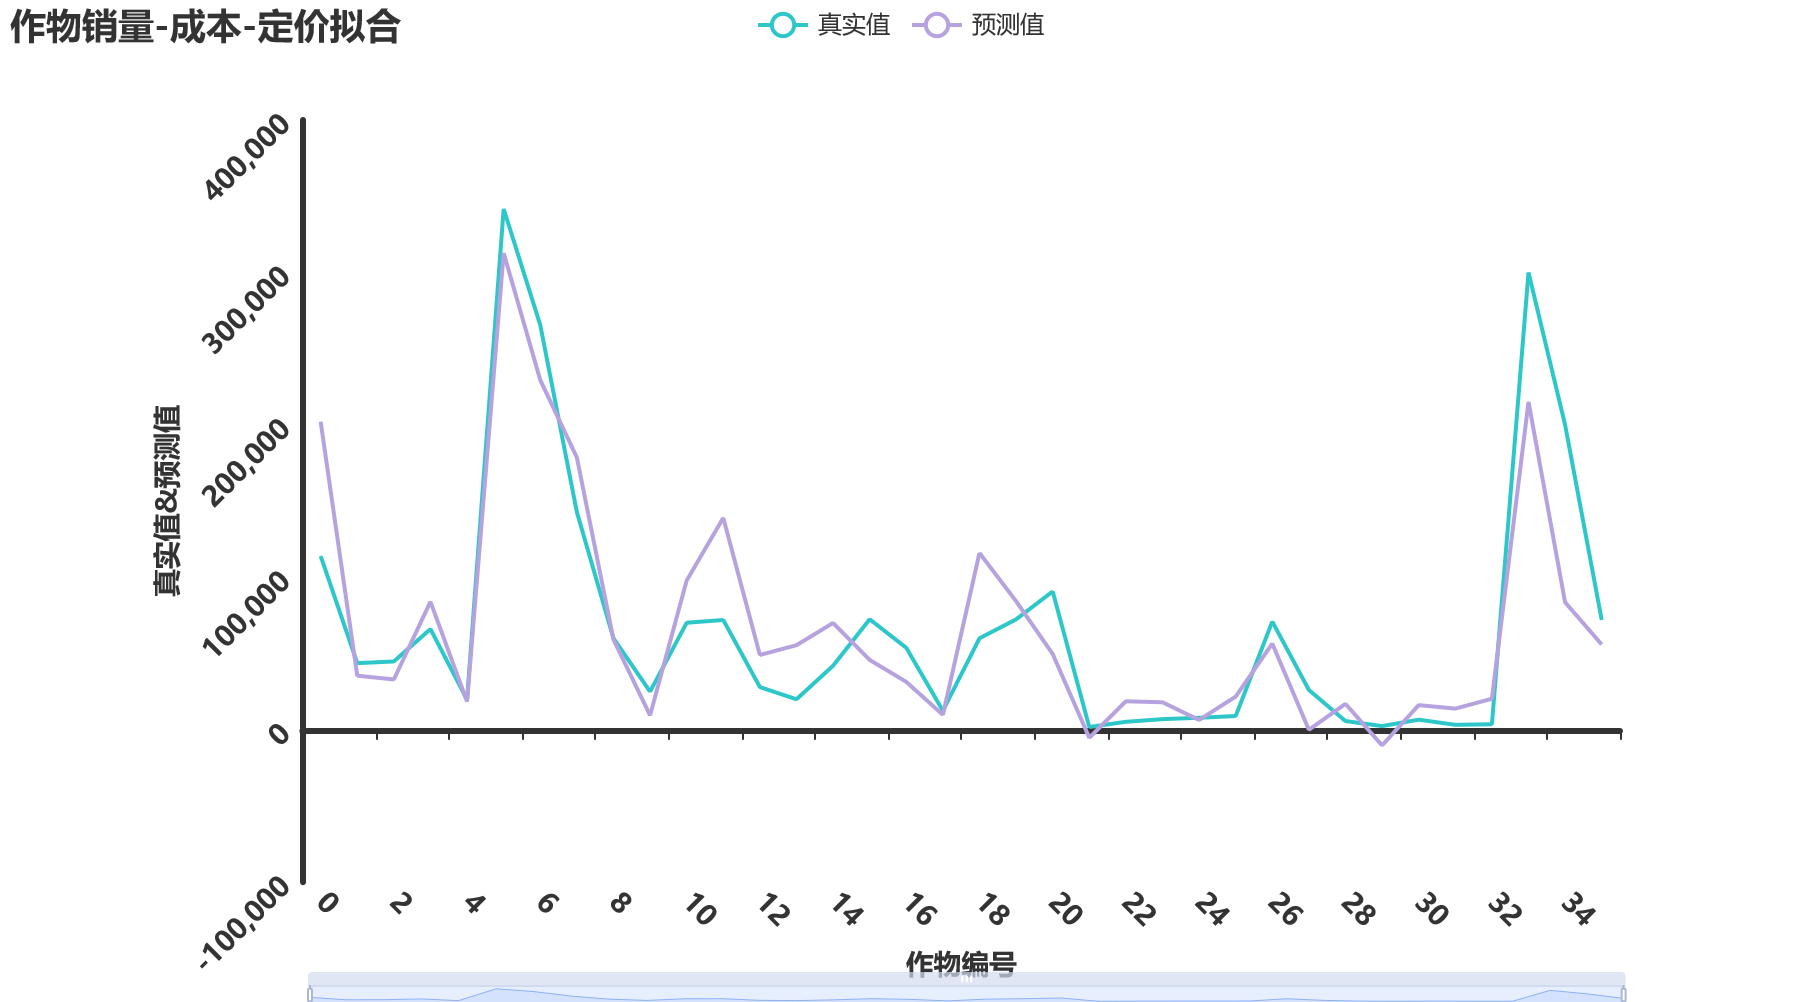
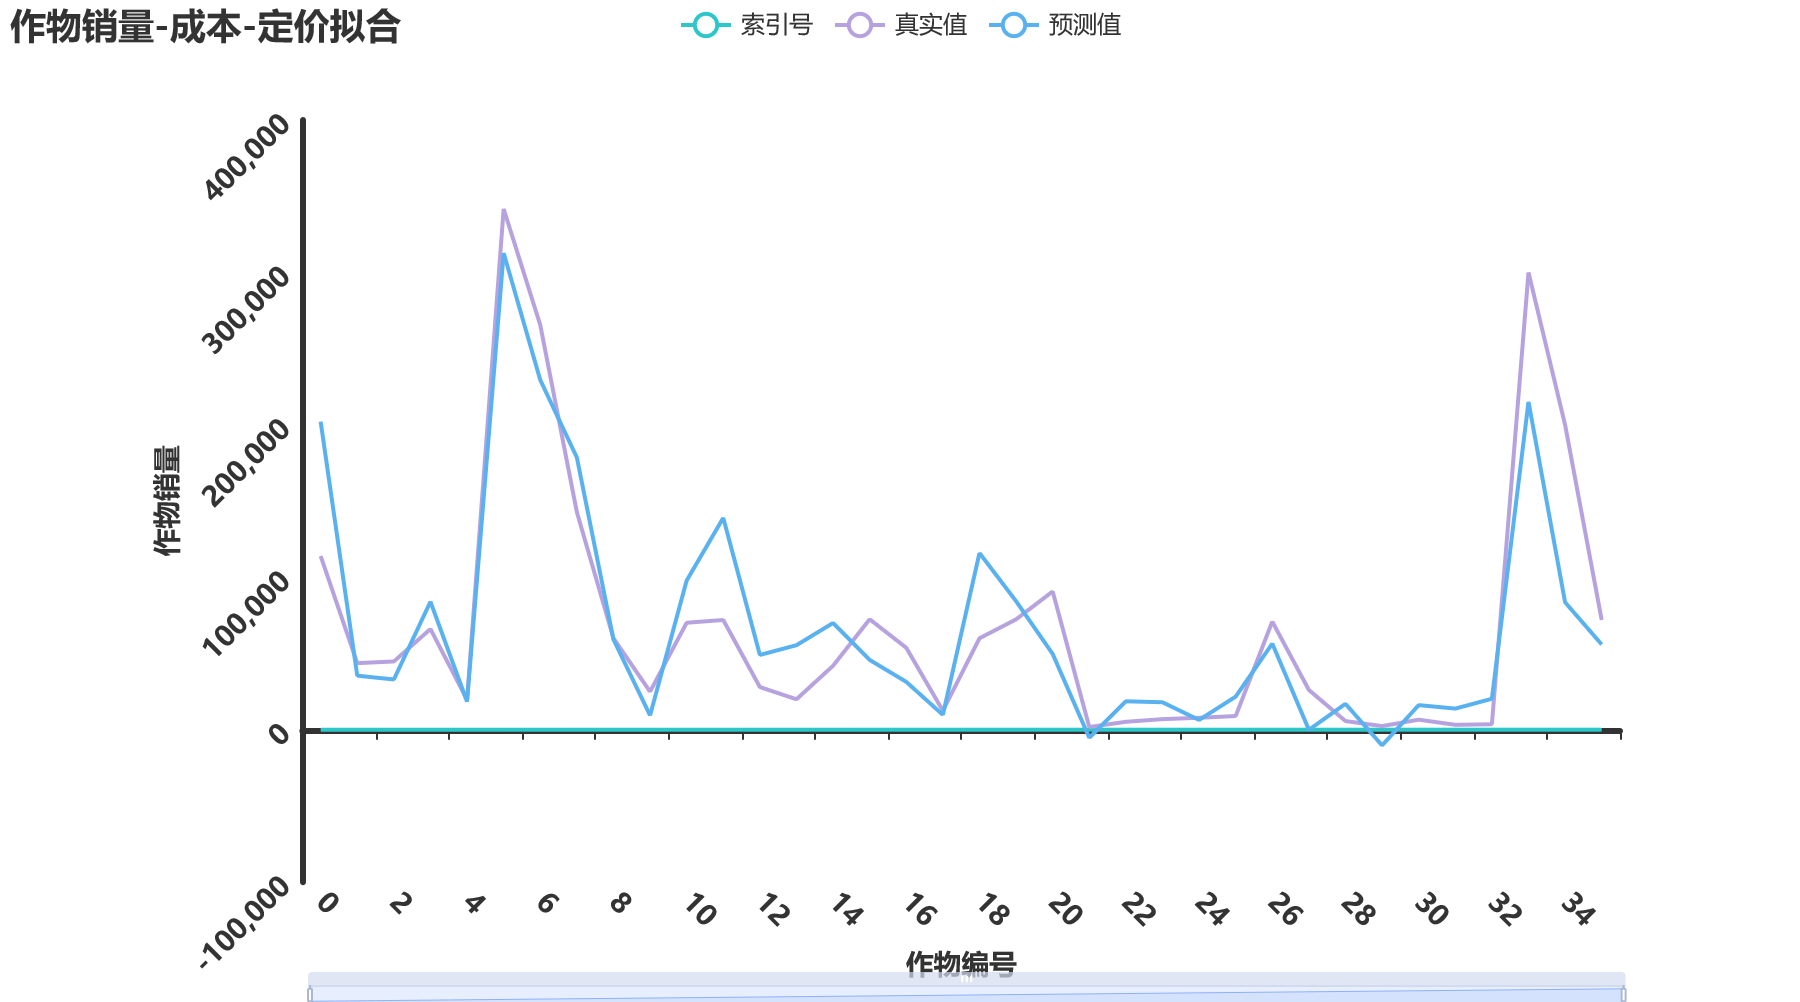
docs: fix typos and add figures

diff --git a/MathCapmain.tex b/MathCapmain.tex
@@ -1037,7 +1037,7 @@ C_{jk} = C_{j2023} \cdot (1 + 0.05)^{k-2023}
 
 在问题三中，我们需要在问题二的基础上，进一步考虑农作物之间的可替代性和互补性，并且分析预期销售量、销售价格、种植成本之间的相关性，进而给出该乡村2024至2030年农作物的最优种植策略。
 
-在实际农作物种植中，不同的作物之间可能存在一定的可替代性和互补性。例如，豆类作物可以通过根瘤菌固氮作用改善土壤结构，提高后续作物的产量，这种作物之间的互补性必须在种植策略中得到充分考虑。同时，不同作物的种植成本、销售价格和预期销售量也存在一定的相关性。这些相关性影响了作物的收益和种植面积分配，进而影响整个种植策略的优化。因此，我们需要通过建立弹性模型，对成本、价格和销量的关系进行分析与拟合，并基于这些分析结果对模型进行优化调整。
+在实际农作物种植中，不同的作物之间可能存在一定的可替代性和互补性。例如，豆类作物可以通过根瘤菌固氮作用改善土壤结构，提高后续作物的产量，这种作物之间的互补性必须在种植策略中得到充分考虑。同时，不同作物的种植成本、销售价格和预期销售量也存在一定的相关性。这些相关性影响了作物的收益和种植面积分配，进而影响整个种植策略的优化。因此，我们需要通过建立线性模型，对成本、价格和销量的关系进行分析与拟合，并基于这些分析结果对模型进行优化调整。
 
 
 \subsection{相关性分析}
@@ -1063,9 +1063,9 @@ C_{jk} = C_{j2023} \cdot (1 + 0.05)^{k-2023}
 
 \paragraph{分析结果}
 
-计算得出的相关性矩阵表明，种植成本和销售量之间具有较强的正相关性，相关系数约为 $\rho_{S,C} = 0.86$。这表明，当种植成本增加时，作物的销售量也会相应增加。出现这种现象的原因可能在于，高成本作物往往是高价值作物，它们在市场上的需求相对稳定甚至呈现增长趋势。例如，蔬菜类和高端食用菌类作物尽管种植成本较高，但由于其市场需求较强，因此能够实现较高的销售量。
+图\ref{fig:heatmap}和\ref{fig:heatmap2}分别展示了通过对所有以及单位作物的成本，产量，销售价格之间进行的相关性分析得到的关联度结果，以图\ref{fig:heatmap2}为例，计算得出的相关性矩阵表明，种植成本和销售量之间具有较强的正相关性，相关系数约为 $\rho_{S,C} = 0.86$。这表明，当种植成本增加时，作物的销售量也会相应增加。出现这种现象的原因可能在于，高成本作物往往是高价值作物，它们在市场上的需求相对稳定甚至呈现增长趋势。例如，蔬菜类和高端食用菌类作物尽管种植成本较高，但由于其市场需求较强，因此能够实现较高的销售量。
 而种植成本与销售价格之间的相关性相对较弱，相关系数为 $\rho_{C,P} = -0.31$。这表明，作物的种植成本与其最终的市场定价并没有显著的直接联系，可能是由于市场定价受到了更多外部因素（如市场供需、政策、气候等）的影响。
-通过上述分析，我们得出了种植成本、销售价格和销售量之间的初步关系，为后续的弹性模型提供了依据。
+通过上述分析，我们得出了种植成本、销售价格和销售量之间的初步关系，为后续的线性模型提供了依据。
 
 \begin{figure}[H]
   \centering
@@ -1074,15 +1074,22 @@ C_{jk} = C_{j2023} \cdot (1 + 0.05)^{k-2023}
   \label{fig:heatmap}
 \end{figure}
 
-如图\ref{fig:heatmap}所示，热力图进一步直观地展示了种植成本、销售价格和预期销售量之间的相关性。颜色越深的区域表示相关性越强，我们可以观察到成本和销量之间的强正相关，以及售价和销量之间的负相关性。
+\begin{figure}[H]
+  \centering
+  \includegraphics[width=0.8\textwidth]{figures/prob3/correlation/单位价格_成本_销量热力图.png}
+  \caption{单位价格-成本-销量热力图}
+  \label{fig:heatmap2}
+\end{figure}
 
-\subsection{弹性模型与拟合分析}
+热力图进一步直观地展示了种植成本、销售价格和预期销售量之间的相关性。颜色越深的区域表示相关性越强，我们可以观察到成本和销量之间的强正相关，以及售价和销量之间的负相关性。
 
-在完成了相关性分析之后，我们进一步构建了弹性模型，以量化种植成本、售价和销量之间的关系。通过弹性模型，我们能够更好地理解这些变量之间的相互作用，并利用它们的弹性系数对未来的作物种植决策进行优化。
+\subsection{线性模型与拟合分析}
 
-\paragraph{销售量与种植成本的弹性模型}
+在完成了相关性分析之后，我们进一步构建了线性模型，以量化种植成本、售价和销量之间的关系。通过线性模型，我们能够更好地理解这些变量之间的相互作用，并利用它们的弹性系数对未来的作物种植决策进行优化。
 
-基于相关性分析的结果，种植成本和预期销售量之间具有显著的正相关关系。为了进一步量化这种关系，我们构建了如下的弹性模型：
+\paragraph{销售量与种植成本的线性模型}
+
+基于相关性分析的结果，种植成本和预期销售量之间具有显著的正相关关系。为了进一步量化这种关系，我们构建了如下的线性模型：
 
 \[
   C_{jk} = C_{j,0} \left(1 - \sigma_{S,C} \times \frac{S_{jk} - \bar{S}}{\bar{S}} \right)
@@ -1099,9 +1106,9 @@ C_{jk} = C_{j2023} \cdot (1 + 0.05)^{k-2023}
 
 通过回归分析，我们得到了销售量与种植成本之间的弹性系数 $\sigma_{S,C} = -0.7974$，这表明随着销售量的增加，种植成本将略微减少。原因可能在于，随着销售量的增长，规模经济效应（Economies of Scale）使得单位面积的种植成本下降。换句话说，当某种作物的市场需求增加时，种植者可以通过扩大种植规模来降低边际种植成本。
 
-\paragraph{销售量与销售价格的弹性模型}
+\paragraph{销售量与销售价格，销售成本的线性模型}
 
-接下来，我们考虑销售价格与预期销售量之间的关系。根据相关性分析，销售价格和销量呈现出负相关关系，这意味着当价格上涨时，销量往往下降。为了定量描述这种关系，我们建立了如下的弹性模型：
+接下来，我们考虑销售价格与预期销售量等变量之间的关系。根据相关性分析，销售价格和销量呈现出负相关关系，这意味着当价格上涨时，销量往往下降。为了定量描述这种关系，我们建立了如下的线性模型：
 
 \[
   S_{jk} = \sum_S + \sigma_{C,S} \times C_{jk} - \sigma_{S,P} \times P_{jk}
@@ -1123,19 +1130,9 @@ C_{jk} = C_{j2023} \cdot (1 + 0.05)^{k-2023}
   \sum_S = 8122.041, \quad \sigma_{C,S} = 1.385, \quad \sigma_{S,P} = 1.2894.65
 \]
 
-\paragraph{销售量与种植成本和售价的弹性模型}
-
-弹性模型的核心在于通过弹性系数来量化每个变量对其他变量的影响。为此，我们使用回归分析技术对数据进行了拟合，得出了以下模型公式：
-
-\[
-  S_{jk} = \sum_S + \sigma_{C,S} \times C_{jk} - \sigma_{S,P} \times P_{jk}
-\]
-
-其中，$\sum_S$ 表示作物的基础销售量，是一个常量，不受种植成本和售价的直接影响。$\sigma_{C,S}$ 是成本与销量的弹性系数，表示种植成本对销量的影响；而 $\sigma_{S,P}$ 是售价与销量的弹性系数，表示售价对销量的影响。
-
 \paragraph{回归分析与拟合过程}
 
-为了确定这些弹性系数，我们使用了最小二乘法对数据进行回归分析。最小二乘法的目标是找到一组参数，使得预测值与实际观测值之间的误差平方和最小。对于我们的弹性模型，回归分析的目标是找到最优的 $\sigma_{C,S}$ 和 $\sigma_{S,P}$，使得以下目标函数最小化：
+为了确定这些弹性系数，我们使用了最小二乘法对数据进行回归分析。最小二乘法的目标是找到一组参数，使得预测值与实际观测值之间的误差平方和最小。对于我们的线性模型，回归分析的目标是找到最优的 $\sigma_{C,S}$ 和 $\sigma_{S,P}$，使得以下目标函数最小化：
 
 \[
   \min_{\sigma_{C,S}, \sigma_{S,P}} \sum_{k=2024}^{2030} \sum_{j} \left( S_{jk}^{\text{observed}} - \left( \sum_S + \sigma_{C,S} \times C_{jk} - \sigma_{S,P} \times P_{jk} \right) \right)^2
@@ -1152,7 +1149,7 @@ C_{jk} = C_{j2023} \cdot (1 + 0.05)^{k-2023}
 
 \paragraph{模型的拟合优度——$R^2$得分}
 
-为了评估弹性模型的拟合效果，我们使用了 $R^2$ 得分来衡量模型的解释能力。$R^2$ 是一种用于评估回归模型拟合优度的标准，它反映了自变量能够解释因变量变异的比例。$R^2$ 的计算公式为：
+为了评估线性模型的拟合效果，我们使用了 $R^2$ 得分来衡量模型的解释能力。$R^2$ 是一种用于评估回归模型拟合优度的标准，它反映了自变量能够解释因变量变异的比例。$R^2$ 的计算公式为：
 
 \[
   R^2 = 1 - \frac{\sum_{k=2024}^{2030} \sum_{j} \left( S_{jk}^{\text{observed}} - S_{jk}^{\text{predicted}} \right)^2}{\sum_{k=2024}^{2030} \sum_{j} \left( S_{jk}^{\text{observed}} - \bar{S} \right)^2}
@@ -1165,7 +1162,7 @@ C_{jk} = C_{j2023} \cdot (1 + 0.05)^{k-2023}
   \item 当 $R^2$ 越接近 1，表示模型的拟合效果越好。
 \end{itemize}
 
-在我们的模型中，计算得出的 $R^2$ 得分为 0.802，表示该模型能够解释 80.2\% 的销售量变异。这表明模型具有较强的解释力，能够较为准确地捕捉种植成本、销售价格与销售量之间的关系。虽然 $R^2$ 得分未达到 1，表明还有部分销售量的波动无法通过该线性模型解释，可能受到其他未考虑因素的影响，但整体上模型的拟合效果已相对较好。
+在我们的模型中，计算得出的 $R^2$ 得分为 0.802，表示该模型能够解释 80.2\% 的销售量变异。这表明模型具有较强的解释力，能够较为准确地捕捉种植成本、销售价格与销售量之间的关系。虽然销售量的波动无法完全准确的通过该线性模型解释，可能受到其他未考虑因素的影响，但整体上模型的拟合效果已相对较好。
 
 \paragraph{可视化与结果展示}
 
@@ -1182,12 +1179,12 @@ C_{jk} = C_{j2023} \cdot (1 + 0.05)^{k-2023}
 
 \begin{figure}[H]
   \centering
-  \includegraphics[width=0.8\textwidth]{figures/prob3/correlation/作物销量-定价拟合.png}
-  \caption{作物销量-定价拟合}
+  \includegraphics[width=0.8\textwidth]{figures/prob3/correlation/作物销量-成本拟合.png}
+  \caption{作物销量-成本拟合}
   \label{fig:fitting2}
 \end{figure}
 
-图\ref{fig:fitting2}进一步展示了销量与售价的拟合情况。与之前的拟合图不同，这里重点展示了销量与售价的关系。拟合结果表明模型可以准确预测销量的变化趋势，捕捉到价格与销量之间的负相关关系，并进行动态调整。
+图\ref{fig:fitting2}进一步展示了销量与生产成本的拟合情况。拟合结果表明模型可以准确预测销量的变化趋势，捕捉到销量与生产成本之间的正相关关系，并进行动态调整。
 
 
 
@@ -1201,17 +1198,17 @@ C_{jk} = C_{j2023} \cdot (1 + 0.05)^{k-2023}
 
 \subsection{模型的优化与求解}
 
-基于上述的弹性模型和拟合分析，我们对问题二中的线性规划模型进行了优化。在问题三中，由于种植成本、价格和销量之间存在弹性关系，因此我们将这些弹性系数引入到目标函数和约束条件中，以进一步优化作物的种植面积分配策略。
+基于上述的线性模型和拟合分析，我们对问题二中的线性规划模型进行了优化。在问题三中，由于种植成本、价格和销量之间存在弹性关系，因此我们将这些弹性系数引入到目标函数和约束条件中，以进一步优化作物的种植面积分配策略。
 
-首先，目标函数依然是最大化乡村的总种植收益，但在问题三中，我们将弹性模型中的回归系数纳入考虑，从而使得目标函数能够根据成本、价格和销量的变化进行动态调整。具体目标函数可以表述为：
+首先，目标函数依然是最大化乡村的总种植收益，但在问题三中，我们将线性模型中的回归系数纳入考虑，从而使得目标函数能够根据成本、价格和销量的变化进行动态调整。具体目标函数可以表述为：
 
 \[
   L_3 = \sum_{ijk} \left( S_{jk} \cdot P_{jk} - C_{jk} \cdot A_{ijk} \right)
 \]
 
-其中，$S_{jk}$ 根据弹性模型进行预测，$P_{jk}$ 和 $C_{jk}$ 也基于前述的回归分析进行动态调整。与问题二不同的是，问题三中的目标函数充分考虑了销售量、种植成本和售价之间的相互作用，从而使得种植策略更加灵活、稳健。
+其中，$S_{jk}$ 根据线性模型进行预测，$P_{jk}$ 和 $C_{jk}$ 也基于前述的回归分析进行动态调整。与问题二不同的是，问题三中的目标函数充分考虑了销售量、种植成本和售价之间的相互作用，从而使得种植策略更加灵活、稳健。
 
-在求解过程中，模型同样通过Pulp库进行线性规划求解。我们根据问题二中的求解思路，定义了优化的决策变量和约束条件，但在问题三中，增加了弹性模型的约束。例如，在考虑种植成本与销量的关系时，模型需要确保在销售量较高的情况下，种植成本能够合理控制，避免过高的成本侵蚀利润。类似地，定价的变化也会影响到每个作物的最优种植面积，模型会根据弹性系数对种植面积进行动态调整。
+在求解过程中，模型同样通过Pulp库进行线性规划求解。我们根据问题二中的求解思路，定义了优化的决策变量和约束条件，但在问题三中，增加了线性模型的约束。例如，在考虑种植成本与销量的关系时，模型需要确保在销售量较高的情况下，种植成本能够合理控制，避免过高的成本侵蚀利润。类似地，定价的变化也会影响到每个作物的最优种植面积，模型会根据弹性系数对种植面积进行动态调整。
 
 
 \paragraph{农作物的可替代性与互补性分析}
@@ -1238,7 +1235,7 @@ C_{jk} = C_{j2023} \cdot (1 + 0.05)^{k-2023}
   L_3 = \sum_{ijk} \left( S_{jk} \cdot P_{jk} - C_{jk} \cdot A_{ijk} \right)
 \]
 
-其中，$S_{jk}$ 根据弹性模型进行动态预测，$P_{jk}$ 和 $C_{jk}$ 也会随市场条件的变化进行相应调整。通过弹性系数的引入，模型能够在面对市场波动时及时调整作物的种植策略，并减少因市场不确定性导致的经济损失。
+其中，$S_{jk}$ 根据线性模型进行动态预测，$P_{jk}$ 和 $C_{jk}$ 也会随市场条件的变化进行相应调整。通过弹性系数的引入，模型能够在面对市场波动时及时调整作物的种植策略，并减少因市场不确定性导致的经济损失。
 
 \paragraph{求解与模拟结果}
 
@@ -1246,7 +1243,7 @@ C_{jk} = C_{j2023} \cdot (1 + 0.05)^{k-2023}
 
 \textbf{市场需求平稳期的种植策略}：在市场需求相对平稳的年份（如2025年和2027年），模型会优先种植市场需求高、种植成本较低的作物。具体而言，在平旱地和梯田等地块上，模型主要选择了种植小麦和玉米等粮食类作物，因为这些作物具有较高的市场需求增长率，且种植成本相对较低。与此同时，模型在普通大棚和智慧大棚地块上则继续种植蔬菜类作物，如白菜、萝卜等。这些作物具有较好的市场价格增长预期，能够在市场需求平稳的情况下实现收益最大化。
 
-\textbf{市场波动期的调整策略}：在某些年份（如2026年和2028年），市场需求和价格可能出现较大的波动。通过弹性模型，模型能够灵活调整作物种植策略，以适应这种市场波动。例如，在2026年，市场价格出现了显著下降的趋势，尤其是食用菌类作物的市场价格大幅下滑。模型通过减少食用菌的种植面积，并增加水稻、蔬菜等高需求作物的种植面积，确保总体收益的稳定。
+\textbf{市场波动期的调整策略}：在某些年份（如2026年和2028年），市场需求和价格可能出现较大的波动。通过线性模型，模型能够灵活调整作物种植策略，以适应这种市场波动。例如，在2026年，市场价格出现了显著下降的趋势，尤其是食用菌类作物的市场价格大幅下滑。模型通过减少食用菌的种植面积，并增加水稻、蔬菜等高需求作物的种植面积，确保总体收益的稳定。
 
 在这种情况下，作物之间的可替代性发挥了关键作用。模型通过选择可替代性高的作物进行轮换种植，确保在高收益作物价格下跌时能够迅速调整策略。例如，当水稻的价格下跌时，模型可能会增加蔬菜类作物的种植面积，因为它们具有较强的市场需求弹性，并且与水稻存在一定的互补性（蔬菜类作物能够利用水浇地条件实现高产量）。
 
